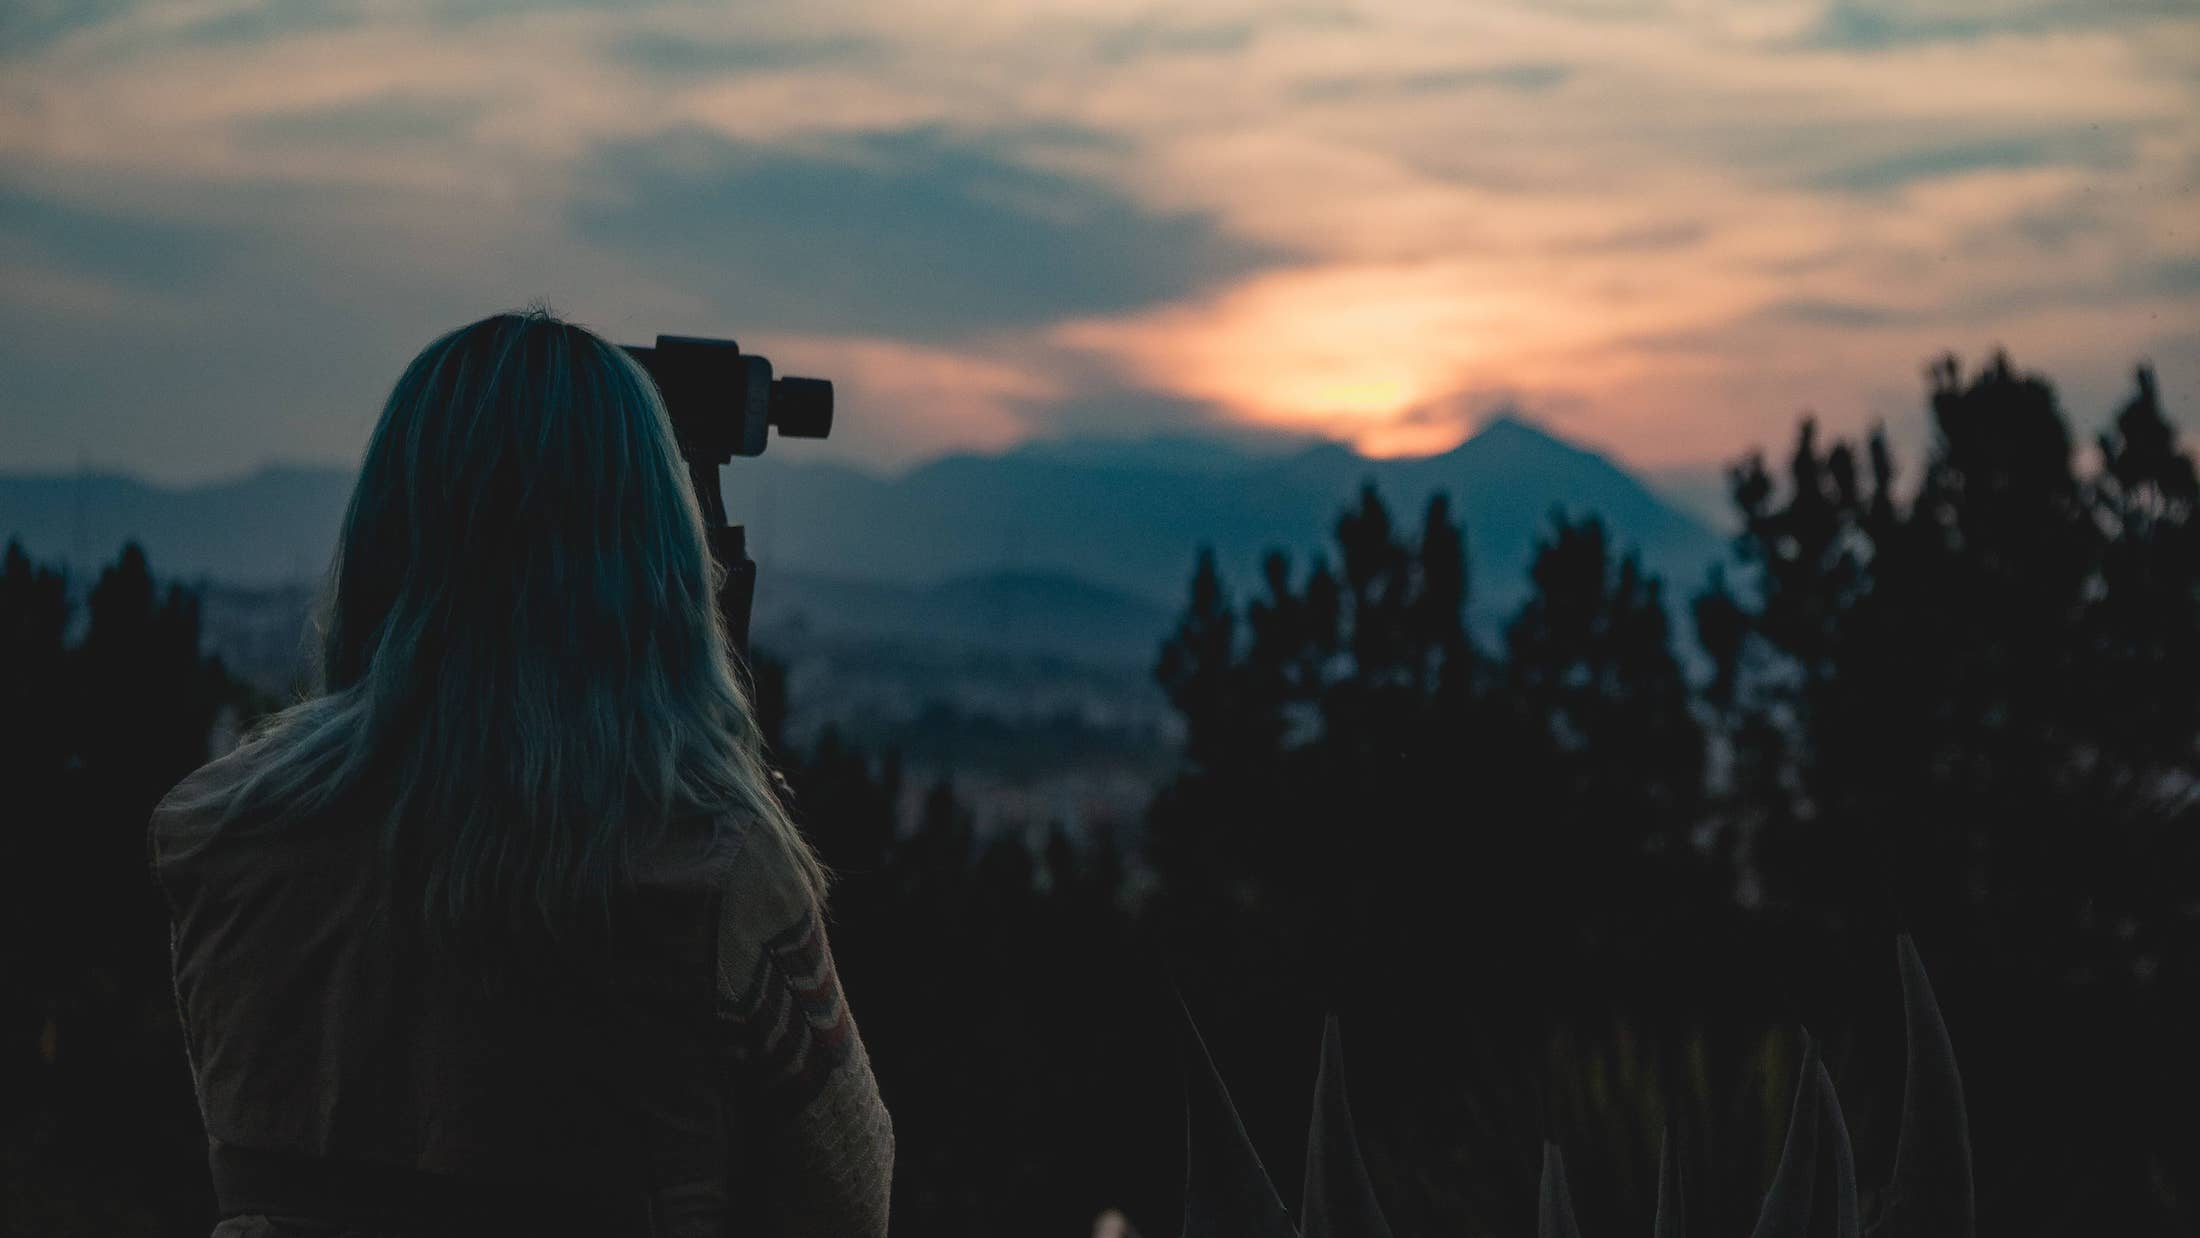
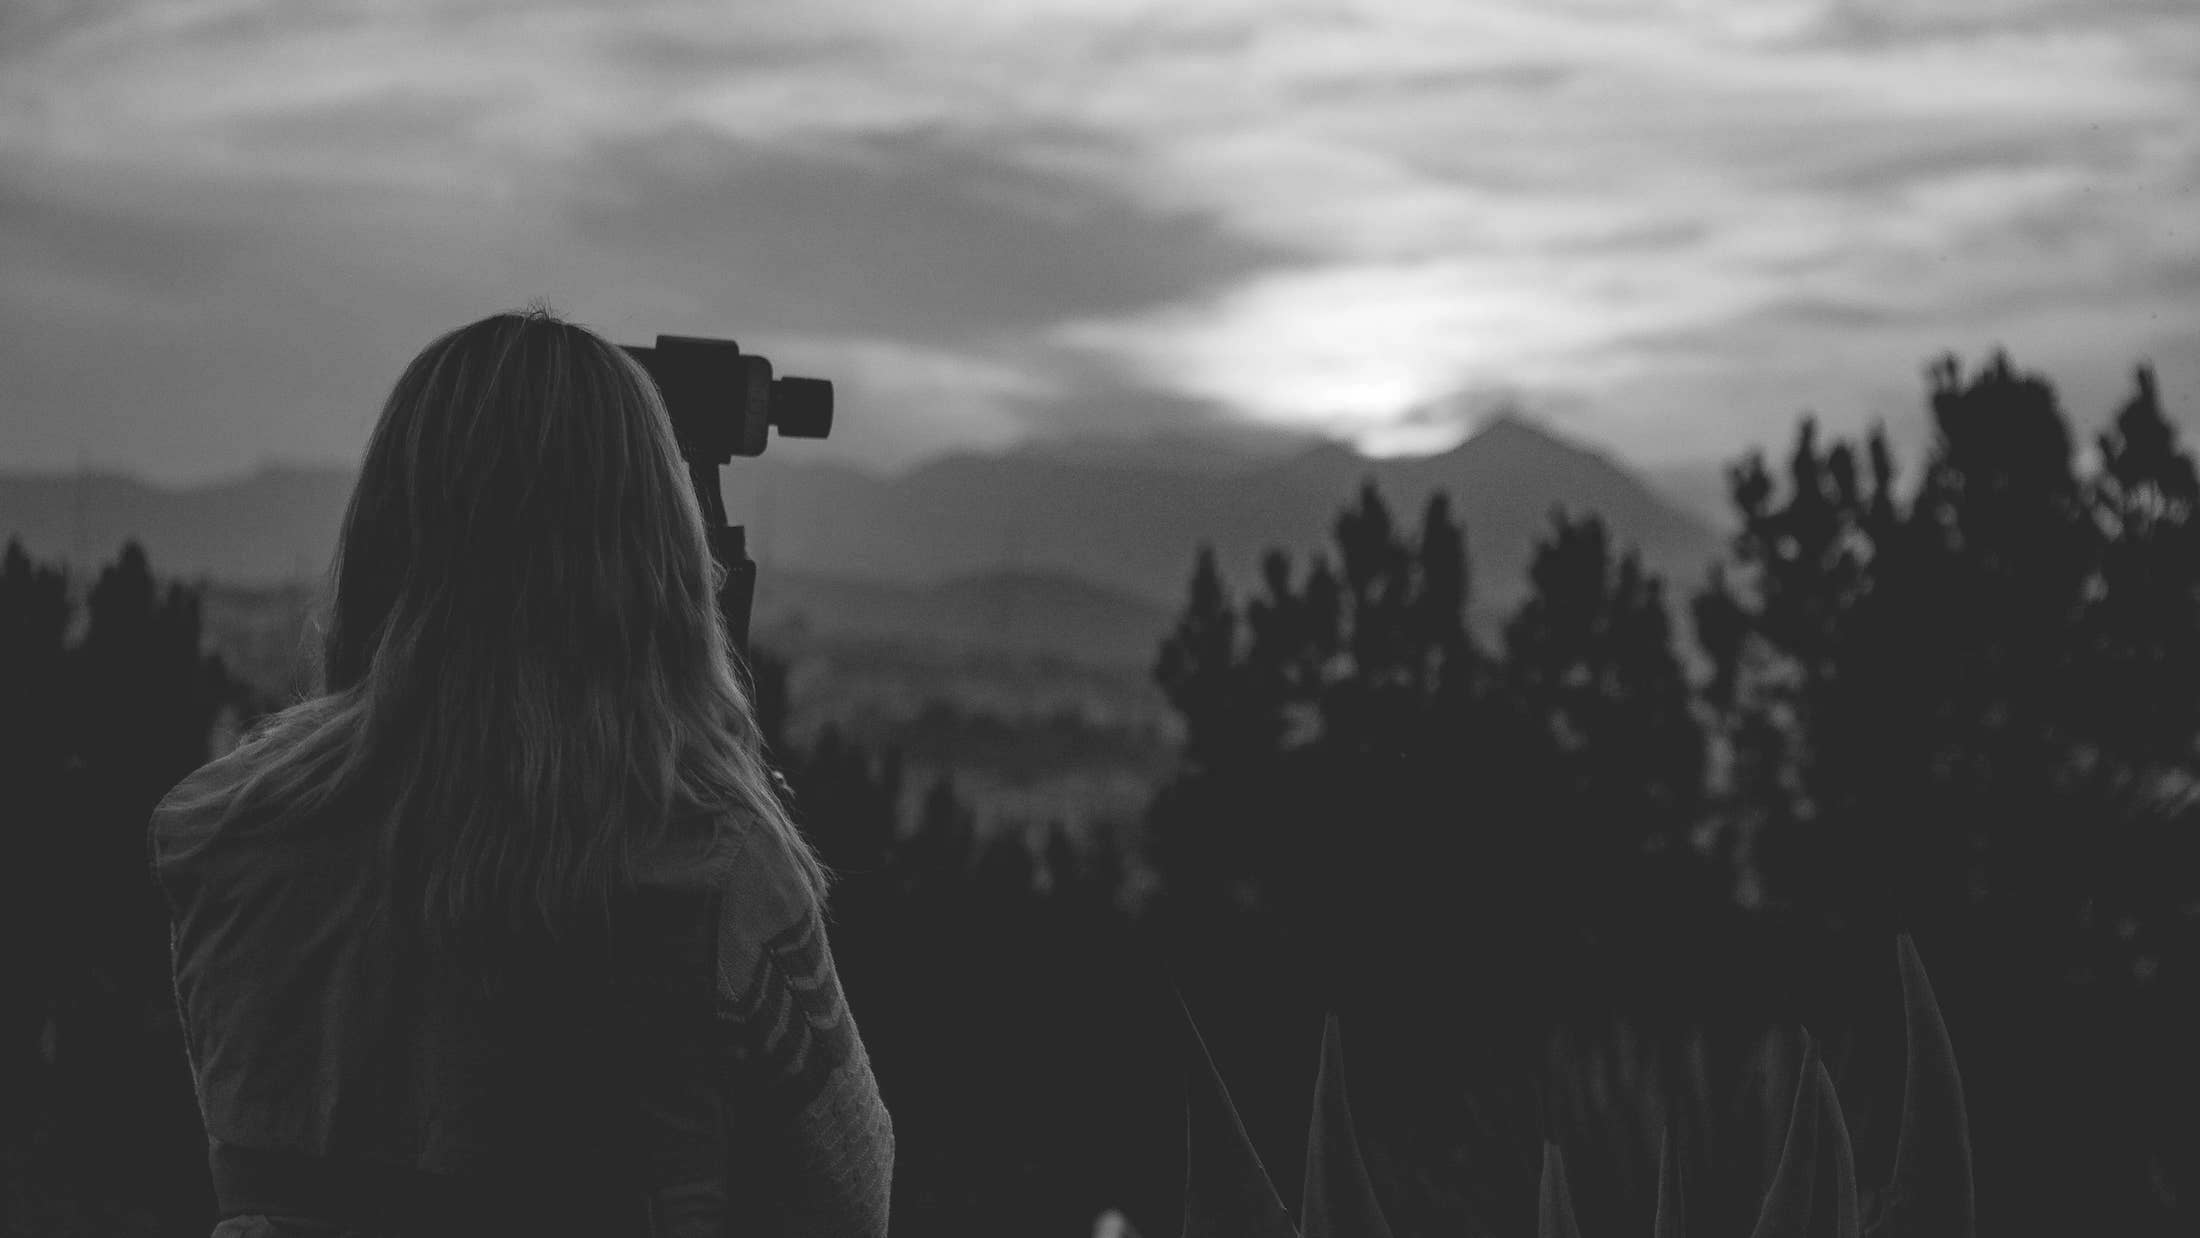
Added sticky nav

diff --git a/sass/_header.scss b/sass/_header.scss
@@ -1,20 +1,38 @@
+
 .header {
     background-image: url(/img/hero-min.jpg);
     background-size: cover;
     background-position: left;
-    background-blend-mode: screen;
-    filter: brightness(110%) grayscale(100%);
+    // background-blend-mode: screen;
+    // filter: brightness(110%) grayscale(100%);
     width: 100%;
     padding: 3rem;
     grid-column: full-start / full-end;
-    
 }
 
 .flex-nav {
     text-transform: uppercase;
     font-size: 2.5rem;
     margin: 0 auto;
+    position: relative;
+    transition: all 1s;
 }
+
+.fixed-nav .flex-nav {
+    position: fixed;
+    background-image: linear-gradient( rgba(170, 170, 170, .85), rgba(170, 170, 170, .85));
+    top: 0;
+    box-shadow: 0 2px 2px rgba(85, 85, 85, 0.2);
+    z-index: 1;
+    min-width: 100vw;
+    left: 0;
+}
+
+.fixed-nav .header-nav {
+    padding-top: 2px;
+}
+
+
 
 .header-nav {
     list-style: none;
@@ -132,224 +150,4 @@
 
 
 
- // display: grid;
- // grid-template-columns: repeat(7, minmax(8rem, 1fr));
- // grid-template-rows: repeat(4, 25%);
-
-
-// .header ul {
-//     list-style: none;
-// }
-
-// .header a:link,
-// .header a:visited {
-//     text-transform: uppercase;
-//     text-decoration: none;
-//     font-size: 2rem;
-//     font-weight: 400;
-//     color: $color-header-text;
-//     transition: all .2s;
-
-// }
-// .header a:hover,
-// .header a:active {
-//     color: $color-grey-dark;
-// }
-
-// .header-nav {
-//     margin: 3rem 4rem;
-//     grid-row: 1 / 2;
-//     grid-column: 1 / 8;
-//     justify-self: center;
-
-//     @media only screen and (max-width: $bp-large) {
-//         display: none;
-//     }
-
-//     &__item {
-
-//         display: inline-block;
-//         margin-right: 4rem;
-
-
-//         &--search {
-//             width: 2rem;
-//             height: 2rem;
-//             fill: $color-header-text;
-//             transition: all .2s;
-
-//             &:hover {
-//                 cursor: pointer;
-//                 fill: $color-grey-dark;
-//             }
-//         }
-        
-//     }
-    
-// }
-// .name {
-//     text-transform: uppercase;
-//     color: $color-header-text;
-//     font-size: 6rem;
-//     letter-spacing: 5px;
-//     grid-column: 3 / 6;
-//     grid-row: 1 / 2;
-//     justify-self: center;
-//     align-self: end;
-// }
-
-// .hero--lrg {
-//     text-transform: uppercase;
-//     color: $color-header-text;
-//     font-size: 4rem;
-//     font-weight: 300;
-//     margin-left: 3rem;
-//     grid-column: 1 / 4;
-//     grid-row: 3 / 5;
-//     letter-spacing: 2px;
-
-// }
-// .hero--sml {
-//     color: $color-header-text;
-//     font-size: 3rem;
-//     font-weight: 200;
-//     grid-row: 4 / 5;
-//     grid-column: 5 / 8;
-//     @media only screen and (max-width: $bp-large) {
-//         grid-column: 3 / 6;
-//     }
-// }
-
-
-
-
-
-
-
-
-
-
-
-
-
-
-
-
-
-
-
-
-
-
-// .header__nav {
-//     display: flex;
-//     justify-content: space-between;
-//     @media only screen and (max-width: $bp-large) {
-//         justify-content: space-around
-//     }
-// }
-
-// .header__group {
-//     @media only screen and (max-width: $bp-large) {
-//         height: 20rem; 
-//     }
-
-//     &--left {
-//         margin-left: 8rem;
-//         position: relative;
-//         @media only screen and (max-width: $bp-med) {
-//             display: none;
-//         }
-//     }
-
-//     &--center {
-//         @media only screen and (max-width: $bp-large) {
-//             display: none;
-//         }
-//     }
-
-//     &--right {
-//         margin-right: 5rem;
-//         display: flex;
-//         @media only screen and (max-width: $bp-med) {
-//             display: none;
-//         }
-//     }
-// }
-
-// .header__item {
-//     display: inline-block;    
-//     margin: 4rem 3rem 0 0;
-
-//     &--logo {
-//         height: 2rem;
-//         width: 2rem;
-//         fill: $color-header-text;
-
-//         &-1 {
-//             position: absolute;
-//             top: .4rem;
-//             left: 1rem;
-//             transform: rotate(.9turn);
-//         }
-//         &-2 {
-//             position: absolute;
-//             top: 1rem;
-//             left: .5rem;
-//             transform: rotate(.25turn);
-
-//         }
-//         &-3 {
-//             transform: rotate(.6turn);
-//             margin-right: 4rem;
-
-//         }
-
-//         &:hover {
-//             fill: $color-grey-dark;
-//             cursor: pointer;
-//         }
-//     }
-
-//     &--search {
-//         height: 2rem;
-//         width: 2rem;
-//         fill: $color-header-text;
-//         transition: all .2s;
-
-//         &:hover {
-//             fill: $color-grey-dark;
-//             cursor: pointer;
-//         }
-//     }
-    
-// }
-
-// .hero__container {
-//     display: flex;
-//     margin-top: 20rem;
-//     align-content: space-between;
-//     justify-content: space-between;
-//     height: 20rem;
-//     padding: 0 8rem;
-
-//     @media only screen and (max-width: $bp-large) {
-//         margin-top: 5rem;
-//     }
-
-//     &--1 {
-//         justify-content: flex-start;
-//     }
-
-//     &--2 {
-//         align-self: flex-end;
-//         @media only screen and (max-width: $bp-large) {
-//             align-self: center;
-//         }
-//     }
-// }
-
-// .heading__top,
-// .heading__bottom {
-//     display: block;
-// }
+ 

diff --git a/js/index.js b/js/index.js
@@ -1,10 +1,49 @@
+/* eslint-disable */
+
+
+//====================================================//
+//=====================   HEADER   ===================//
+//====================================================//
+
+
+const nav = document.querySelector(`.flex-nav`);
+const topOfNav = nav.offsetTop;
+
+
+function fixedNav() {
+    console.log(topOfNav, window.scrollY, nav.offsetHeight);
+    if(window.scrollY >= topOfNav) {
+        document.body.classList.add(`fixed-nav`);
+        document.body.firstElementChild.lastElementChild.style.marginTop = nav.offsetHeight + `px`;
+        console.log(document.body.firstElementChild);
+    } else {
+        document.body.classList.remove(`fixed-nav`);
+        document.body.firstElementChild.lastElementChild.style.marginTop = 0;
+    }
+}
+
+window.addEventListener(`scroll`, fixedNav);
+
+
+
+
+
+
+
+
+
+
+//====================================================//
+//====================   FEATURES    =================//
+//====================================================//
+
+
 const featureHeadings = document.querySelectorAll(`.features__heading`);
 const photoBox = document.querySelector(`.features__photo-box`);
 
 function switchFeatureImage(event) {
     let featureNumber = event.target.dataset.feature
     const featureHeading = event.target;
-    console.log(featureHeading.parentElement.parentElement.firstElementChild.firstElementChild);
     if (event.target) {
     photoBox.innerHTML = `
     <img style="display: block;" class="features__photo features__photo${featureNumber}" src="/img/${featureNumber}.jpg" alt="Feature Picture" >

diff --git a/css/styles.css b/css/styles.css
@@ -207,8 +207,6 @@ p.copyright {
   background-image: url(/img/hero-min.jpg);
   background-size: cover;
   background-position: left;
-  background-blend-mode: screen;
-  filter: brightness(110%) grayscale(100%);
   width: 100%;
   padding: 3rem;
   grid-column: full-start / full-end; }
@@ -216,7 +214,21 @@ p.copyright {
 .flex-nav {
   text-transform: uppercase;
   font-size: 2.5rem;
-  margin: 0 auto; }
+  margin: 0 auto;
+  position: relative;
+  transition: all 1s; }
+
+.fixed-nav .flex-nav {
+  position: fixed;
+  background-image: linear-gradient(rgba(170, 170, 170, 0.85), rgba(170, 170, 170, 0.85));
+  top: 0;
+  box-shadow: 0 2px 2px rgba(85, 85, 85, 0.2);
+  z-index: 1;
+  min-width: 100vw;
+  left: 0; }
+
+.fixed-nav .header-nav {
+  padding-top: 2px; }
 
 .header-nav {
   list-style: none;

diff --git a/index.html b/index.html
@@ -24,13 +24,10 @@
                 <li class="header-nav__item"><a href="#" class="header-nav__link">Contact</a></li>
             </ul>
         </nav>
-
        <div class="hero">
         <h1 class="hero--lrg heading-1">Professional Photographers: For Hire</h1>
         <h2 class="hero--sml heading-2">Online Workshop Series Alpine North In June</h2>
        </div>
-
-
    </header>
 
    <!-- CONTACT -->
@@ -151,7 +148,7 @@
             </li>
        </ul>
        <p class="copyright">
-           &copy; Copyright 2020 by Cameron Remesz. Created for the practice of CSS Grid & Flexbox.  
+           &copy; Copyright 2020 by Cameron Remesz. Created for the practice of CSS Grid, Flexbox & Javascript.  
        </p>
    </footer>
  
